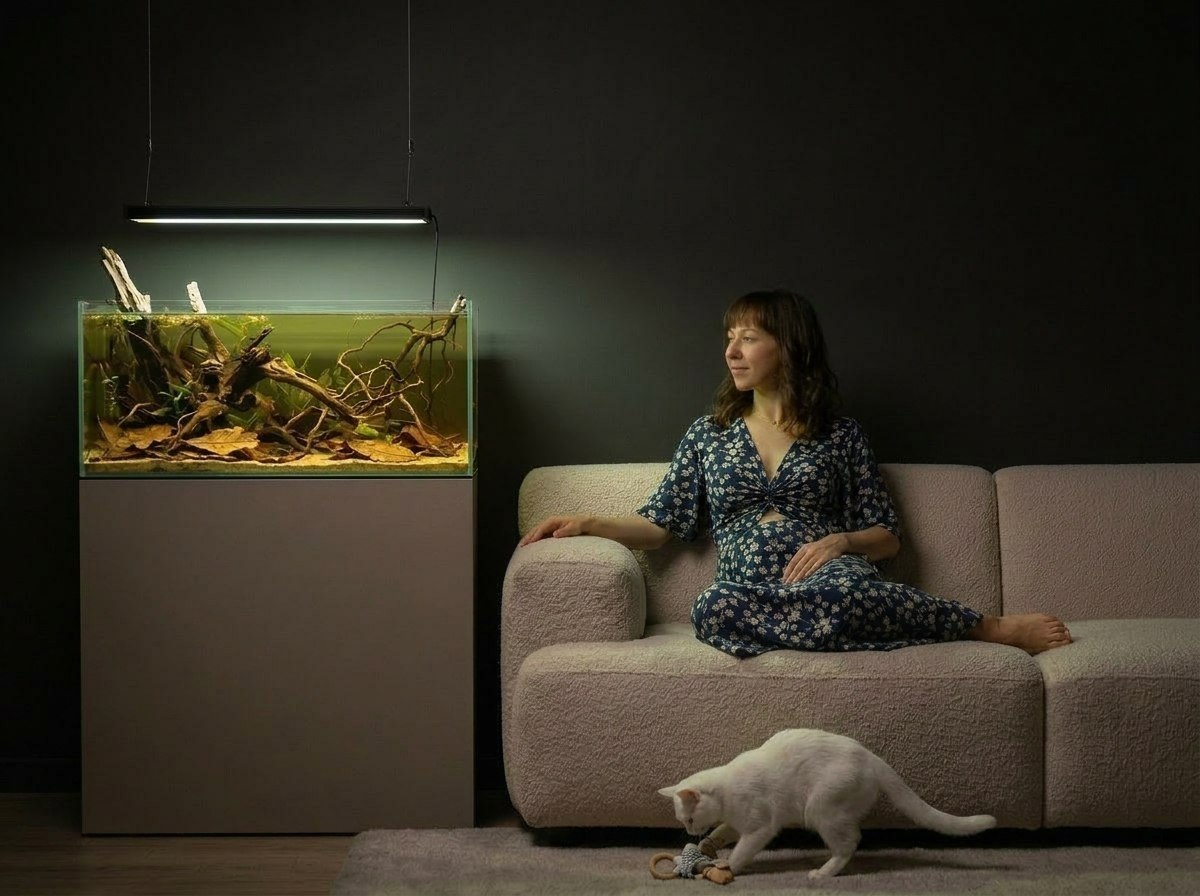
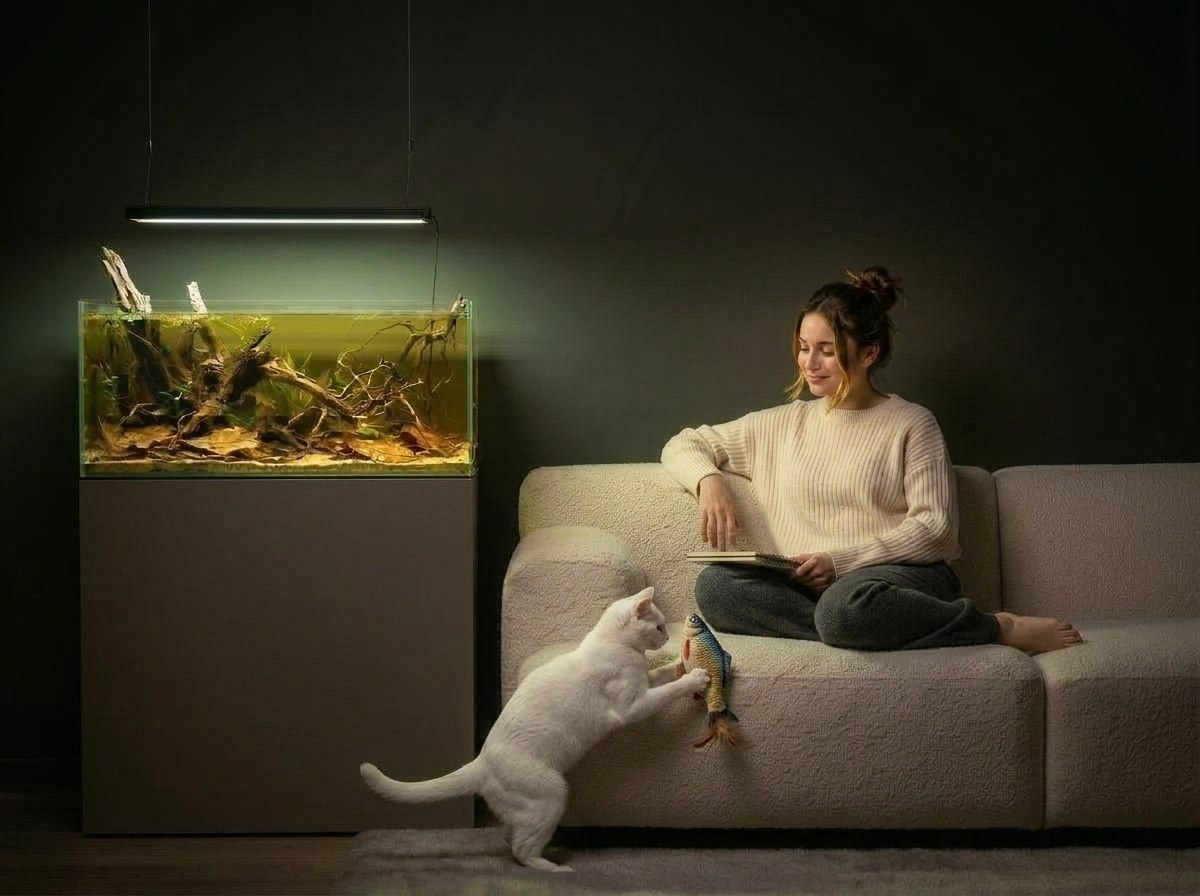
fix: update Telegram handle and OpenRouter model
- Replace @user_house -> @user_kld in all bot prompts and fallbacks
- Fix OpenRouter model slug: claude-sonnet-4.6 -> claude-sonnet-4-6
- Update old chat session key name in public/js/chat.js

diff --git a/public/js/chat.js b/public/js/chat.js
@@ -4,10 +4,10 @@ const chatState = {
 };
 
 const sessionId =
-  sessionStorage.getItem('scapers_chat_session') ||
+  sessionStorage.getItem('riparium_chat_session') ||
   (crypto.randomUUID ? crypto.randomUUID() : Math.random().toString(36).slice(2) + Date.now().toString(36));
 
-sessionStorage.setItem('scapers_chat_session', sessionId);
+sessionStorage.setItem('riparium_chat_session', sessionId);
 
 function createChatElements() {
   const btn = document.createElement('button');

diff --git a/server/api/chat.post.js b/server/api/chat.post.js
@@ -67,7 +67,7 @@ export default defineEventHandler(async (event) => {
 Как собирать заявки:
 — Если клиент хочет заказать или узнать точную цену — мягко предложи оставить заявку.
 — Для расчёта услуг попроси: объём/размеры аквариума, место установки, бюджет.
-— В конце можешь сказать: "Оставьте контакт или напишите нам в Telegram @scapers_house — рассчитаем под вас".
+— В конце можешь сказать: "Оставьте контакт или напишите нам в Telegram @riparium_kld — рассчитаем под вас".
 — Часы работы: ежедневно 11:00–19:00. Адрес: г. Калининград, ул. Аксакова, 123, цокольный этаж.
 ${catalogContext}`
       },
@@ -82,7 +82,7 @@ ${catalogContext}`
   } catch (aiErr) {
     console.error('AI fallback:', aiErr)
     responseMode = 'manual'
-    reply = 'Консультант сейчас недоступен. Ваш вопрос передан специалисту — он ответит в ближайшее время. Также можете написать нам в Telegram @scapers_house.'
+    reply = 'Консультант сейчас недоступен. Ваш вопрос передан специалисту — он ответит в ближайшее время. Также можете написать нам в Telegram @riparium_kld.'
   }
 
   await addHistory(sessionId, 'assistant', reply)

diff --git a/chat.js b/chat.js
@@ -91,7 +91,7 @@ async function onChatSubmit(e) {
     console.error(err);
     const msgs = document.querySelectorAll('.ai-chat-msg.ai-chat-assistant');
     if (msgs.length) {
-      msgs[msgs.length - 1].textContent = 'Консультант сейчас недоступен. Напишите нам в Telegram @scapers_house — ответим лично.';
+      msgs[msgs.length - 1].textContent = 'Консультант сейчас недоступен. Напишите нам в Telegram @riparium_kld — ответим лично.';
     }
   }
 }

diff --git a/PROJECT_STATE.md b/PROJECT_STATE.md
@@ -52,6 +52,13 @@
 - [x] **Фикс "скролл засыпает"** — RAF-оптимизация horizontal scroll, убран forced reflow на каждое событие scroll
 - [x] **Фикс исчезновения скролла при SPA-навигации** — `initHorizontalScroll` вызывается из `onActivated` + `onMounted`
 - [x] **Фильтр цен** — динамический max price из БД (~47 500 ₽), убран хардкод 200 000
+- [x] **Десктоп навигация — всегда fixed** — убран jump контента, nav прозрачная→компактная при скролле
+- [x] **Desktop burger menu** — починен open state, компактный dropdown (220px, top-right)
+- [x] **Футер — год 2016** — copyright соответствует году основания Planta
+- [x] **Убран hover glow интро** — центральная зона входа больше не светится при наведении
+- [x] **About hero photo** — `background-position: center 25%` чтобы показать лица
+- [x] **Кнопка "Назад" static на мобиле** — пофикшен CSS каскад, больше не едет за скроллом
+- [x] **Ссылка VK обновлена** — `vk.com/scapershouse` → `vk.com/riparium_kld`
 
 ## В работе
 - Тестирование: фильтр категорий, админка, карточка товара